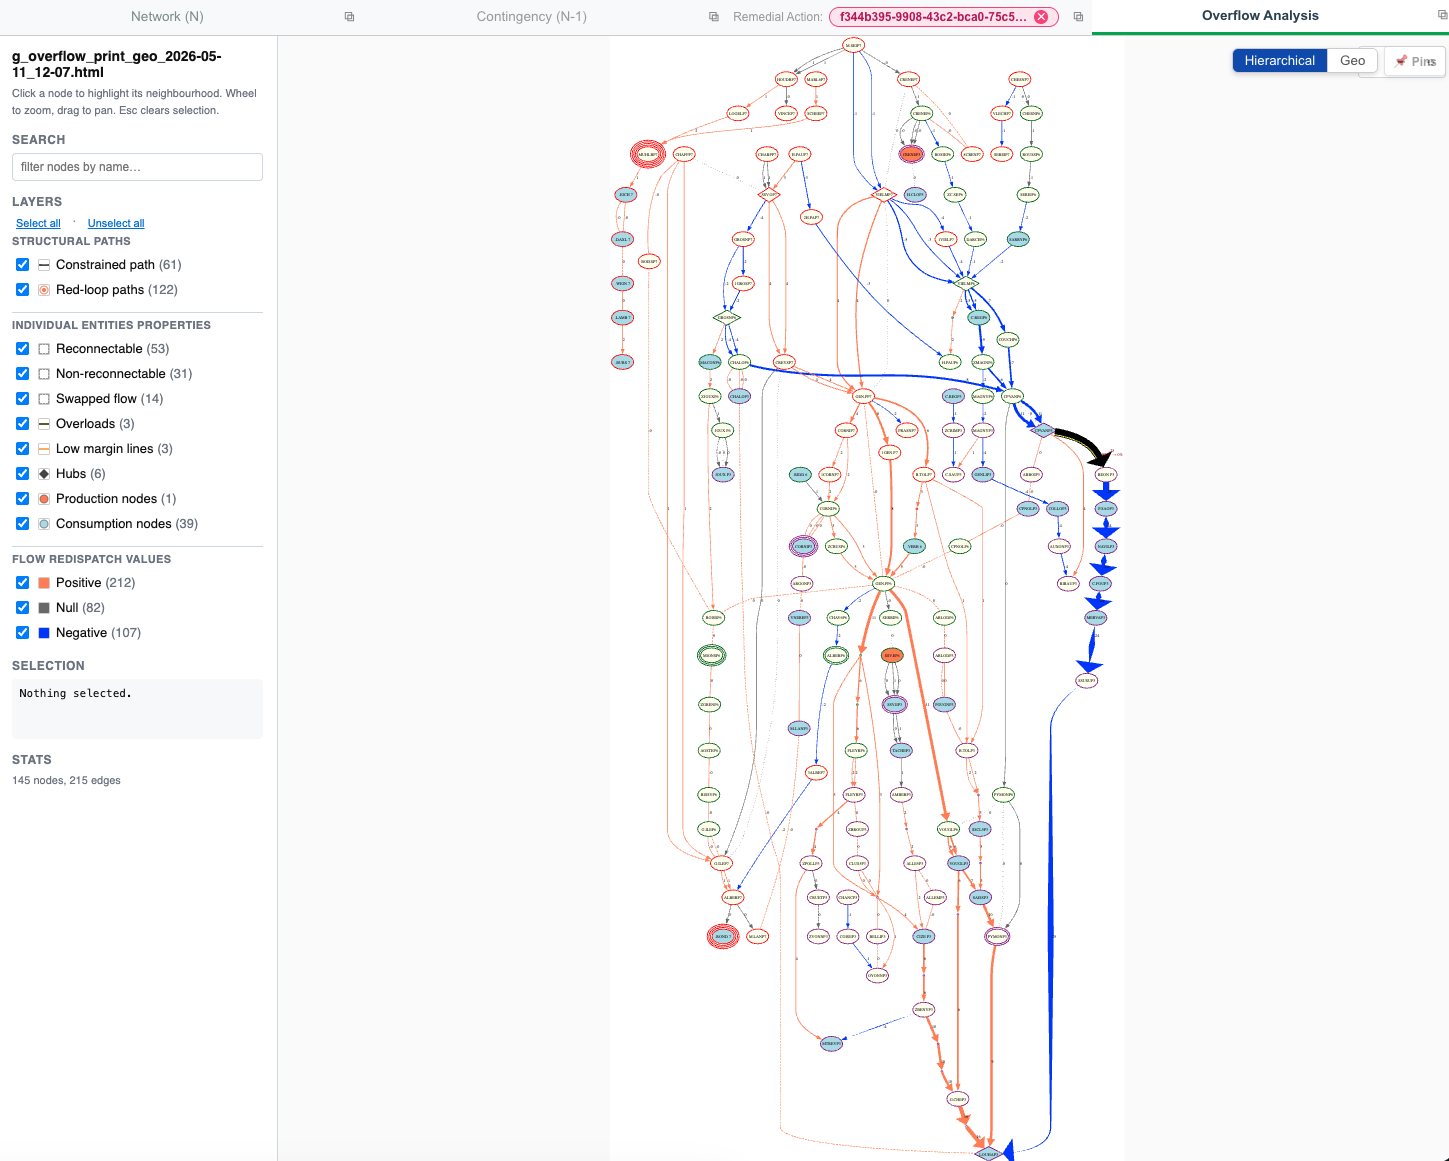
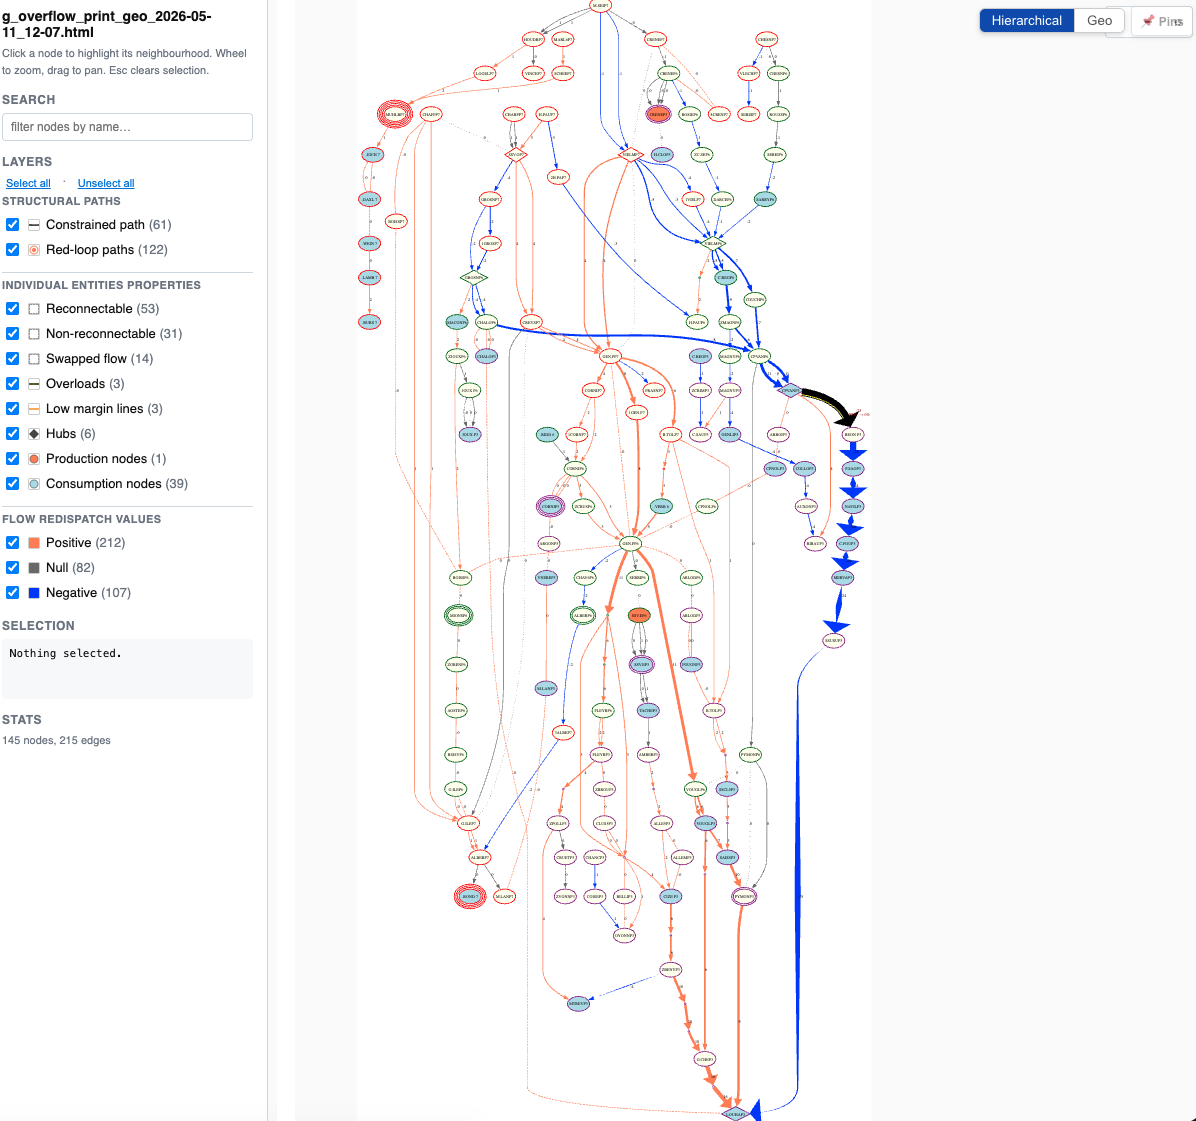
docs(README): enlarge overflow graph (cropped, blank band removed), shrink feed
Removed the large interior blank band between the LAYERS panel and the graph by
cropping and stitching them together (1449x1161 -> 1196x1121, toolbar dropped),
so the overflow analysis graph fills the frame. Bumped its README width 500->580
and reduced the action feed 220->165 to emphasize the analysis graph.

Claude-Session: https://claude.ai/code/session_01TB5xZRHUTsyEHnmEP7aemx

diff --git a/README.md b/README.md
@@ -54,14 +54,14 @@ ranked feed of corrective actions** from it *(right)*.
 <table>
 <tr>
 <td valign="top" align="center">
-  <img src="docs/img/co_study4grid_overflow_graph.png" width="500"
+  <img src="docs/img/co_study4grid_overflow_graph.png" width="580"
        alt="Interpretable overflow analysis graph with a LAYERS panel (constrained path, red/blue flow paths, hubs) highlighting the contingency's root cause">
   <br/><sub><b>Overflow analysis graph</b> — stackable layer filters reveal the
   constrained path and the flow-redistribution root cause that the candidate
   actions act upon.</sub>
 </td>
 <td valign="top" align="center">
-  <img src="docs/img/co_study4grid_recommender_feed.png" width="220"
+  <img src="docs/img/co_study4grid_recommender_feed.png" width="165"
        alt="Ranked 'Suggested Actions' feed: action cards with per-action max-loading, target chips, and green/amber/red severity badges">
   <br/><sub><b>Ranked action feed</b> — for contingency <code>P.SAOL31RONCI</code>
   (overload <code>BEON L31CPVAN</code>, 98.7%): families <code>disco_</code>,